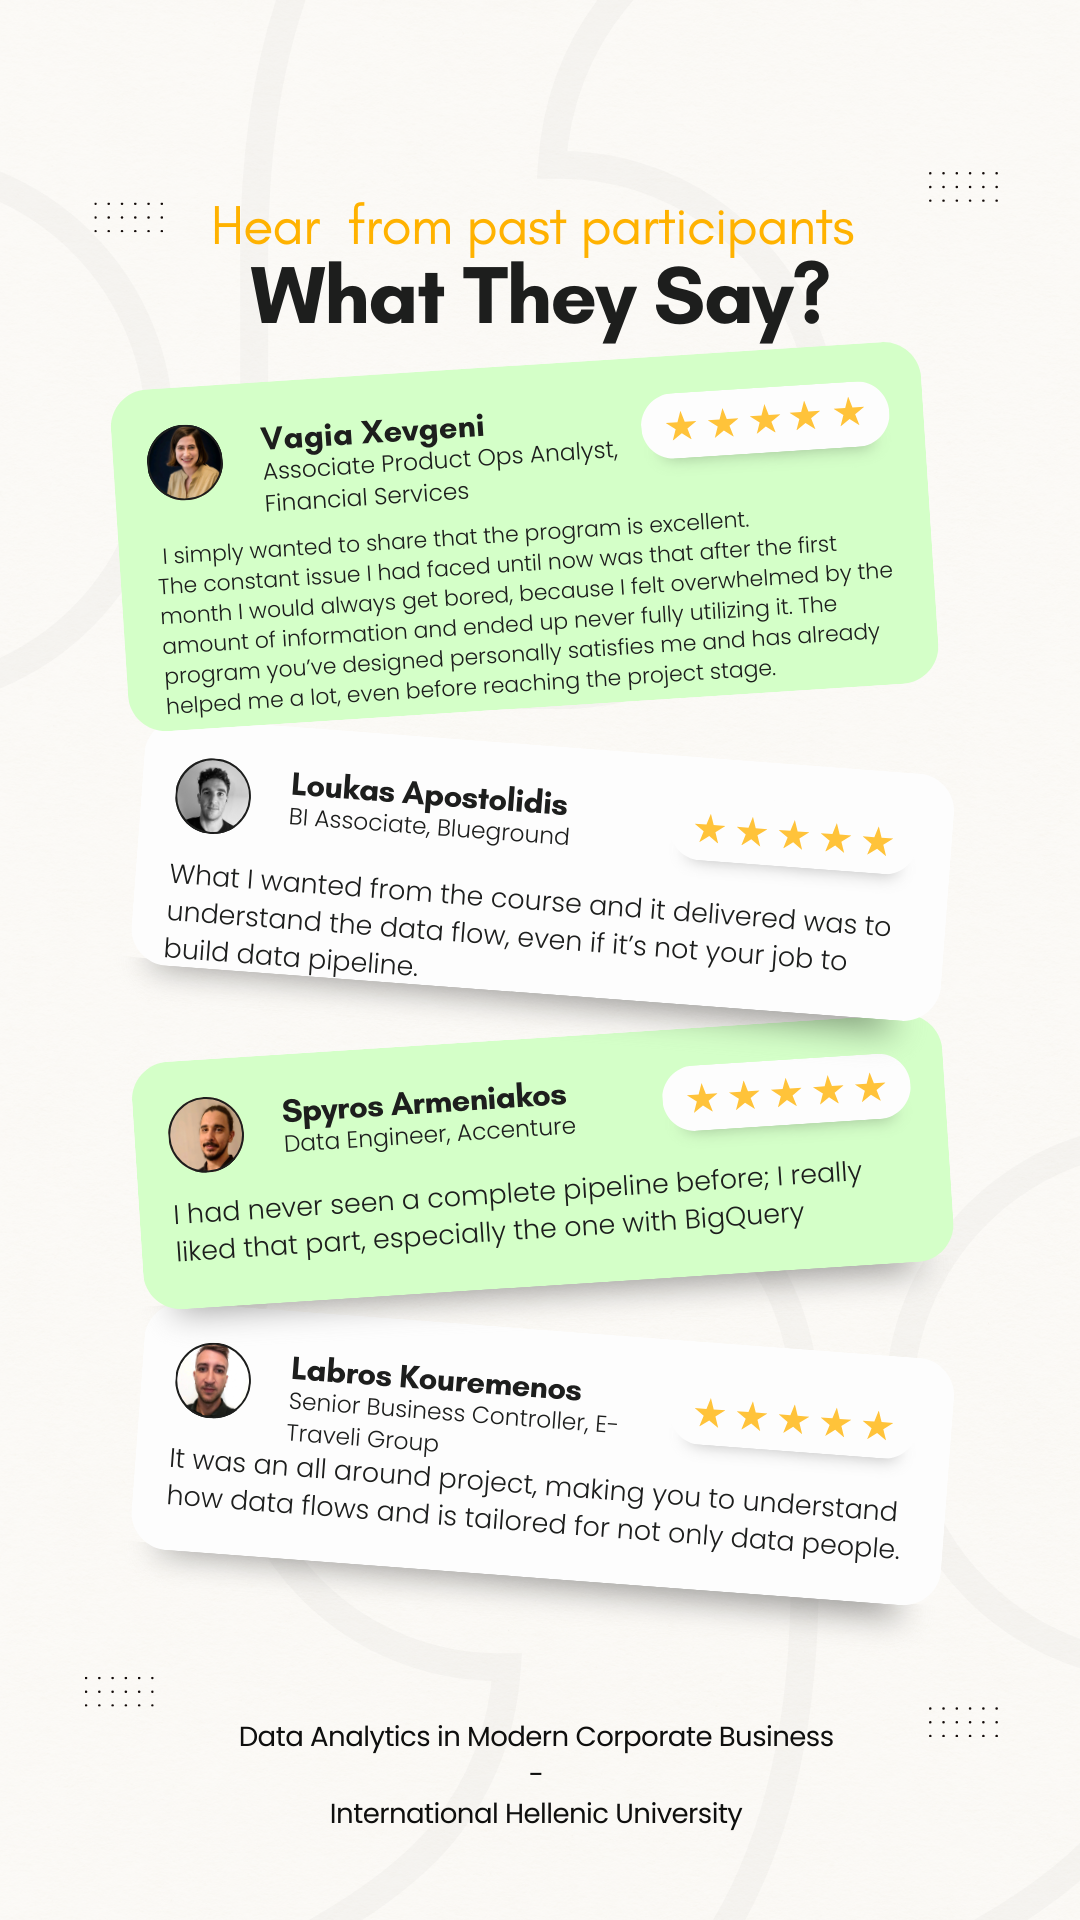
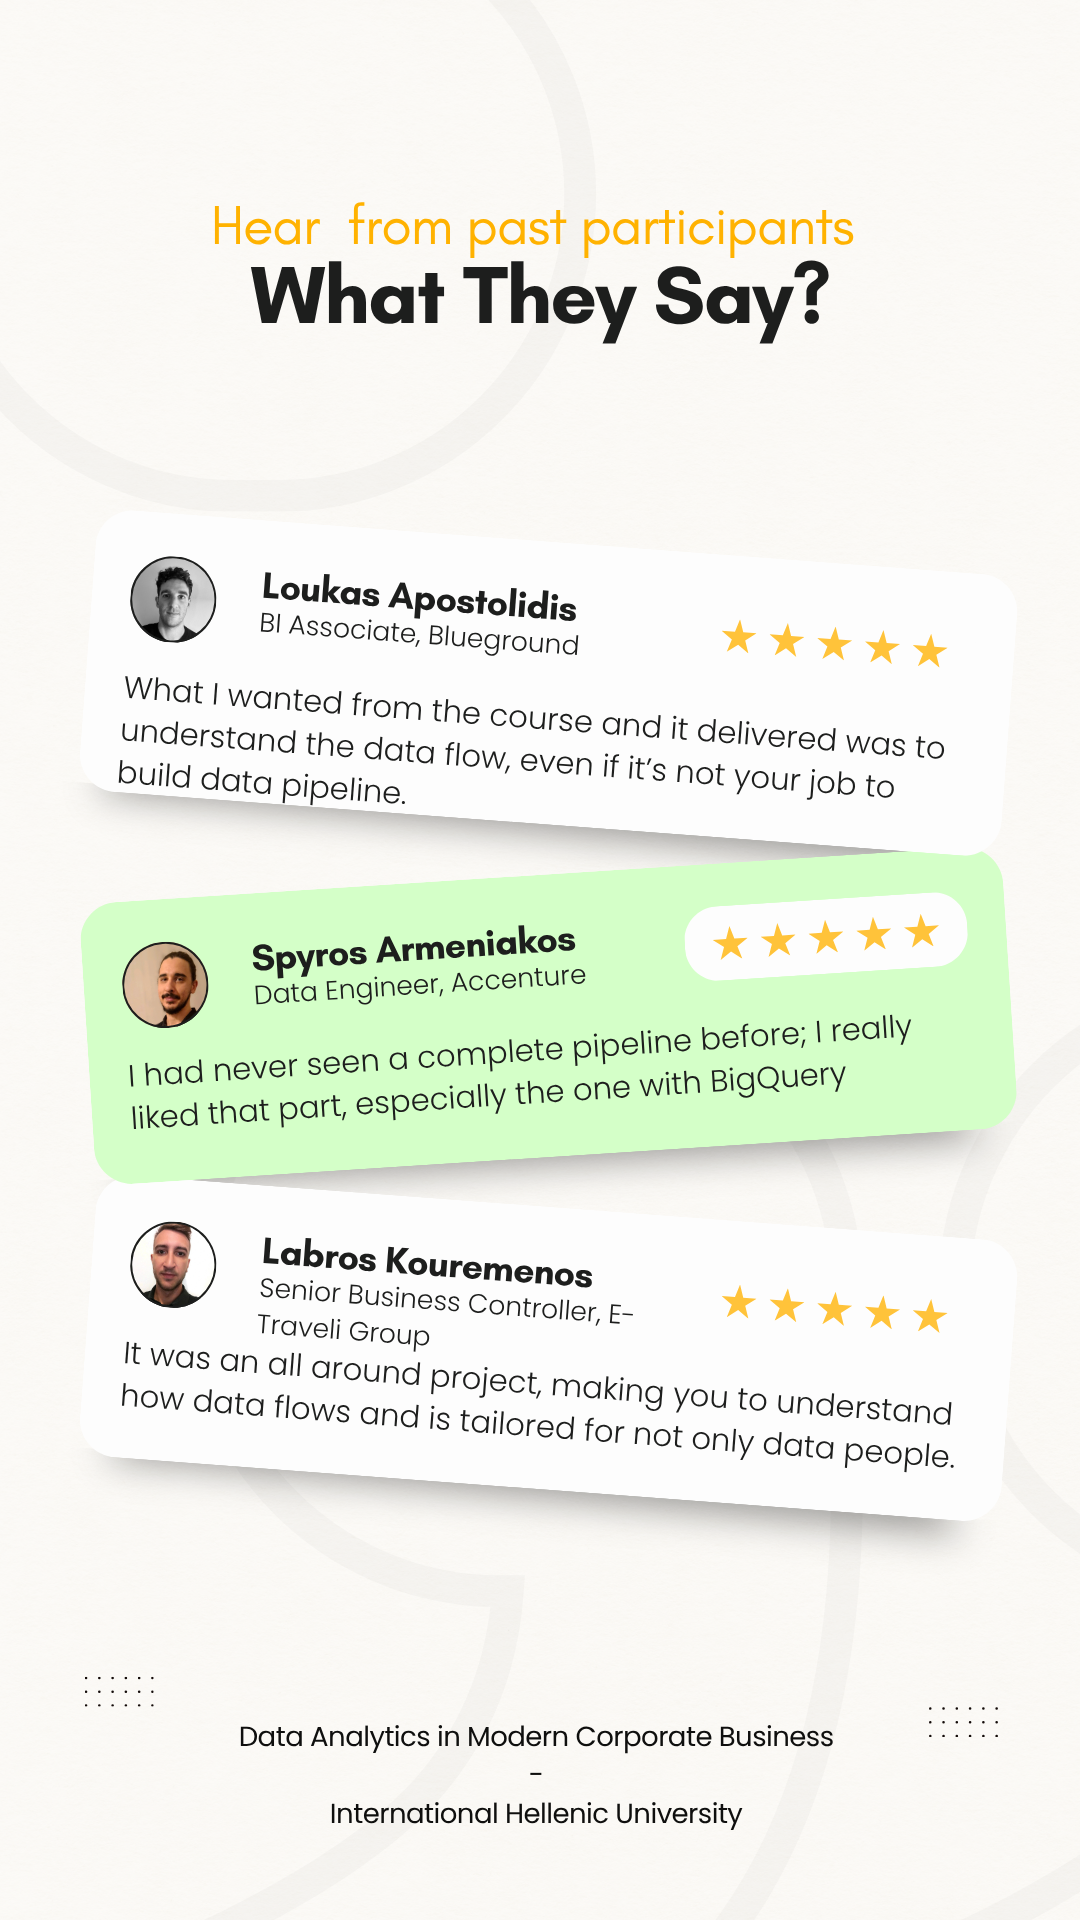
change image and dmcb link

diff --git a/_pages/dmcb.md b/_pages/dmcb.md
@@ -23,7 +23,7 @@ Become a data-driven professional and master modern analytics in a corporate set
 
 ## 📌 About the Course
 
-[Data Analytics in Modern Corporate Business](https://kedivim-apply.ihu.gr/en/progs/prog-390) is a comprehensive course designed to equip participants with the essential skills and knowledge needed to harness the power of data analytics within a modern corporate setting.
+[Data Analytics in Modern Corporate Business](https://kedivim-apply.ihu.gr/en/progs/prog-428) is a comprehensive course designed to equip participants with the essential skills and knowledge needed to harness the power of data analytics within a modern corporate setting.
 
 <div align="center">
 	<img src="/assets/images/post_images/dmcb_info.png" width="400" height="400" style="border-radius: 15%;">
